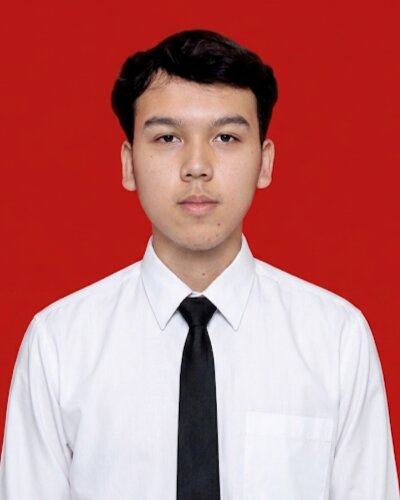
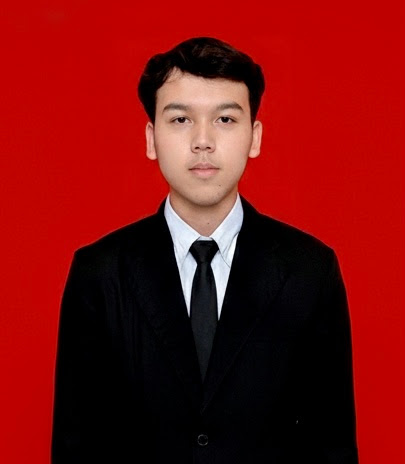
add image gallery support for project case studies

diff --git a/components/AliNurseryGallery.tsx b/components/AliNurseryGallery.tsx
@@ -1,0 +1,87 @@
+"use client";
+
+import { useState } from "react";
+import Image, { type StaticImageData } from "next/image";
+
+import LoginPage from "@/public/projects/ali/LoginPage.png";
+import HomePage from "@/public/projects/ali/HomePage.png";
+import ProductPage from "@/public/projects/ali/ProductPage.png";
+import CheckoutPage from "@/public/projects/ali/CheckoutPage.png";
+import OrderTrackingPage from "@/public/projects/ali/OrderTrackingPage.png";
+import DashboardAdminPage from "@/public/projects/ali/DashboardAdminPage.png";
+import AdminManageOrders from "@/public/projects/ali/AdminManageOrders.png";
+import SalesReportAdmin from "@/public/projects/ali/SalesReportAdmin.png";
+
+interface GalleryImage {
+  src: StaticImageData;
+  alt: string;
+  group: "Customer Experience" | "Admin Panel";
+}
+
+const images: GalleryImage[] = [
+  { src: LoginPage, alt: "Ali Nursery — customer login page", group: "Customer Experience" },
+  { src: HomePage, alt: "Ali Nursery — customer homepage", group: "Customer Experience" },
+  { src: ProductPage, alt: "Ali Nursery — product listing page", group: "Customer Experience" },
+  { src: CheckoutPage, alt: "Ali Nursery — checkout page", group: "Customer Experience" },
+  { src: OrderTrackingPage, alt: "Ali Nursery — order tracking page", group: "Customer Experience" },
+  { src: DashboardAdminPage, alt: "Ali Nursery — admin dashboard overview", group: "Admin Panel" },
+  { src: AdminManageOrders, alt: "Ali Nursery — admin order management", group: "Admin Panel" },
+  { src: SalesReportAdmin, alt: "Ali Nursery — admin sales report", group: "Admin Panel" },
+];
+
+export default function AliNurseryGallery() {
+  const [activeIndex, setActiveIndex] = useState(0);
+  const active = images[activeIndex];
+
+  return (
+    <div className="w-full">
+      {/* Main preview */}
+      <div
+        key={activeIndex}
+        className="relative w-full aspect-[16/10] rounded-[var(--radius-lg)] overflow-hidden card-lift"
+        style={{
+          border: "1px solid var(--border-medium)",
+          animation: "fadeIn var(--dur-slow) var(--ease-out)",
+        }}
+      >
+        <Image
+          src={active.src}
+          alt={active.alt}
+          fill
+          sizes="(min-width: 768px) 640px, 100vw"
+          className="object-cover"
+          priority={activeIndex === 0}
+        />
+      </div>
+
+      {/* Thumbnail strip */}
+      <div className="mt-4 grid grid-cols-4 sm:grid-cols-8 gap-2.5">
+        {images.map((img, i) => (
+          <button
+            key={img.alt}
+            type="button"
+            onClick={() => setActiveIndex(i)}
+            aria-label={`Show ${img.alt}`}
+            aria-pressed={i === activeIndex}
+            className="relative aspect-[16/10] rounded-[var(--radius-sm)] overflow-hidden transition-all duration-[var(--dur-fast)]"
+            style={{
+              border:
+                i === activeIndex
+                  ? "1.5px solid var(--accent-violet)"
+                  : "1px solid var(--border-subtle)",
+              opacity: i === activeIndex ? 1 : 0.6,
+            }}
+          >
+            <Image
+              src={img.src}
+              alt=""
+              fill
+              sizes="120px"
+              className="object-cover"
+            />
+          </button>
+        ))}
+      </div>
+    </div>
+  );
+}

diff --git a/components/ProjectCard.tsx b/components/ProjectCard.tsx
@@ -1,5 +1,21 @@
 import type { Project } from "@/lib/content";
 import ProjectVisual from "@/components/ProjectVisual";
+import AliNurseryGallery from "@/components/AliNurseryGallery";
+
+const aliNurseryFeatures = [
+  {
+    title: "Customer Ordering Flow",
+    desc: "Customers can securely log in, browse products, view real-time stock availability, complete checkout, and track their orders from a single web interface.",
+  },
+  {
+    title: "Admin Order Management",
+    desc: "Administrators verify payments, manage incoming orders, update order status, and monitor inventory through a centralized dashboard.",
+  },
+  {
+    title: "Sales Reporting",
+    desc: "The system generates structured sales reports with Excel export functionality to support operational monitoring and business decision-making.",
+  },
+];
 
 export default function ProjectCard({
   project,
@@ -8,6 +24,8 @@ export default function ProjectCard({
   project: Project;
   reverse?: boolean;
 }) {
+  const isAliNursery = project.slug === "ali-nursery";
+
   return (
     <article
       className={`scroll-animate grid md:grid-cols-2 gap-0 md:gap-12 items-center rounded-[var(--radius-lg)] overflow-hidden card-lift ${
@@ -109,6 +127,35 @@ export default function ProjectCard({
                 {project.outcome}
               </p>
             </div>
+
+            {isAliNursery && (
+              <div className="pt-2 space-y-6">
+                <div>
+                  <p className="text-[11px] uppercase tracking-widest font-semibold mb-3" style={{ color: "var(--text-tertiary)" }}>
+                    Gallery
+                  </p>
+                  <AliNurseryGallery />
+                </div>
+
+                <div className="grid sm:grid-cols-3 gap-4">
+                  {aliNurseryFeatures.map((f) => (
+                    <div
+                      key={f.title}
+                      className="rounded-[var(--radius-md)] p-5 card-lift"
+                      style={{
+                        background: "var(--bg-elevated-2)",
+                        border: "1px solid var(--border-subtle)",
+                      }}
+                    >
+                      <h4 className="text-sm font-bold">{f.title}</h4>
+                      <p className="text-xs mt-2 leading-relaxed" style={{ color: "var(--text-secondary)" }}>
+                        {f.desc}
+                      </p>
+                    </div>
+                  ))}
+                </div>
+              </div>
+            )}
           </div>
         </details>
 
